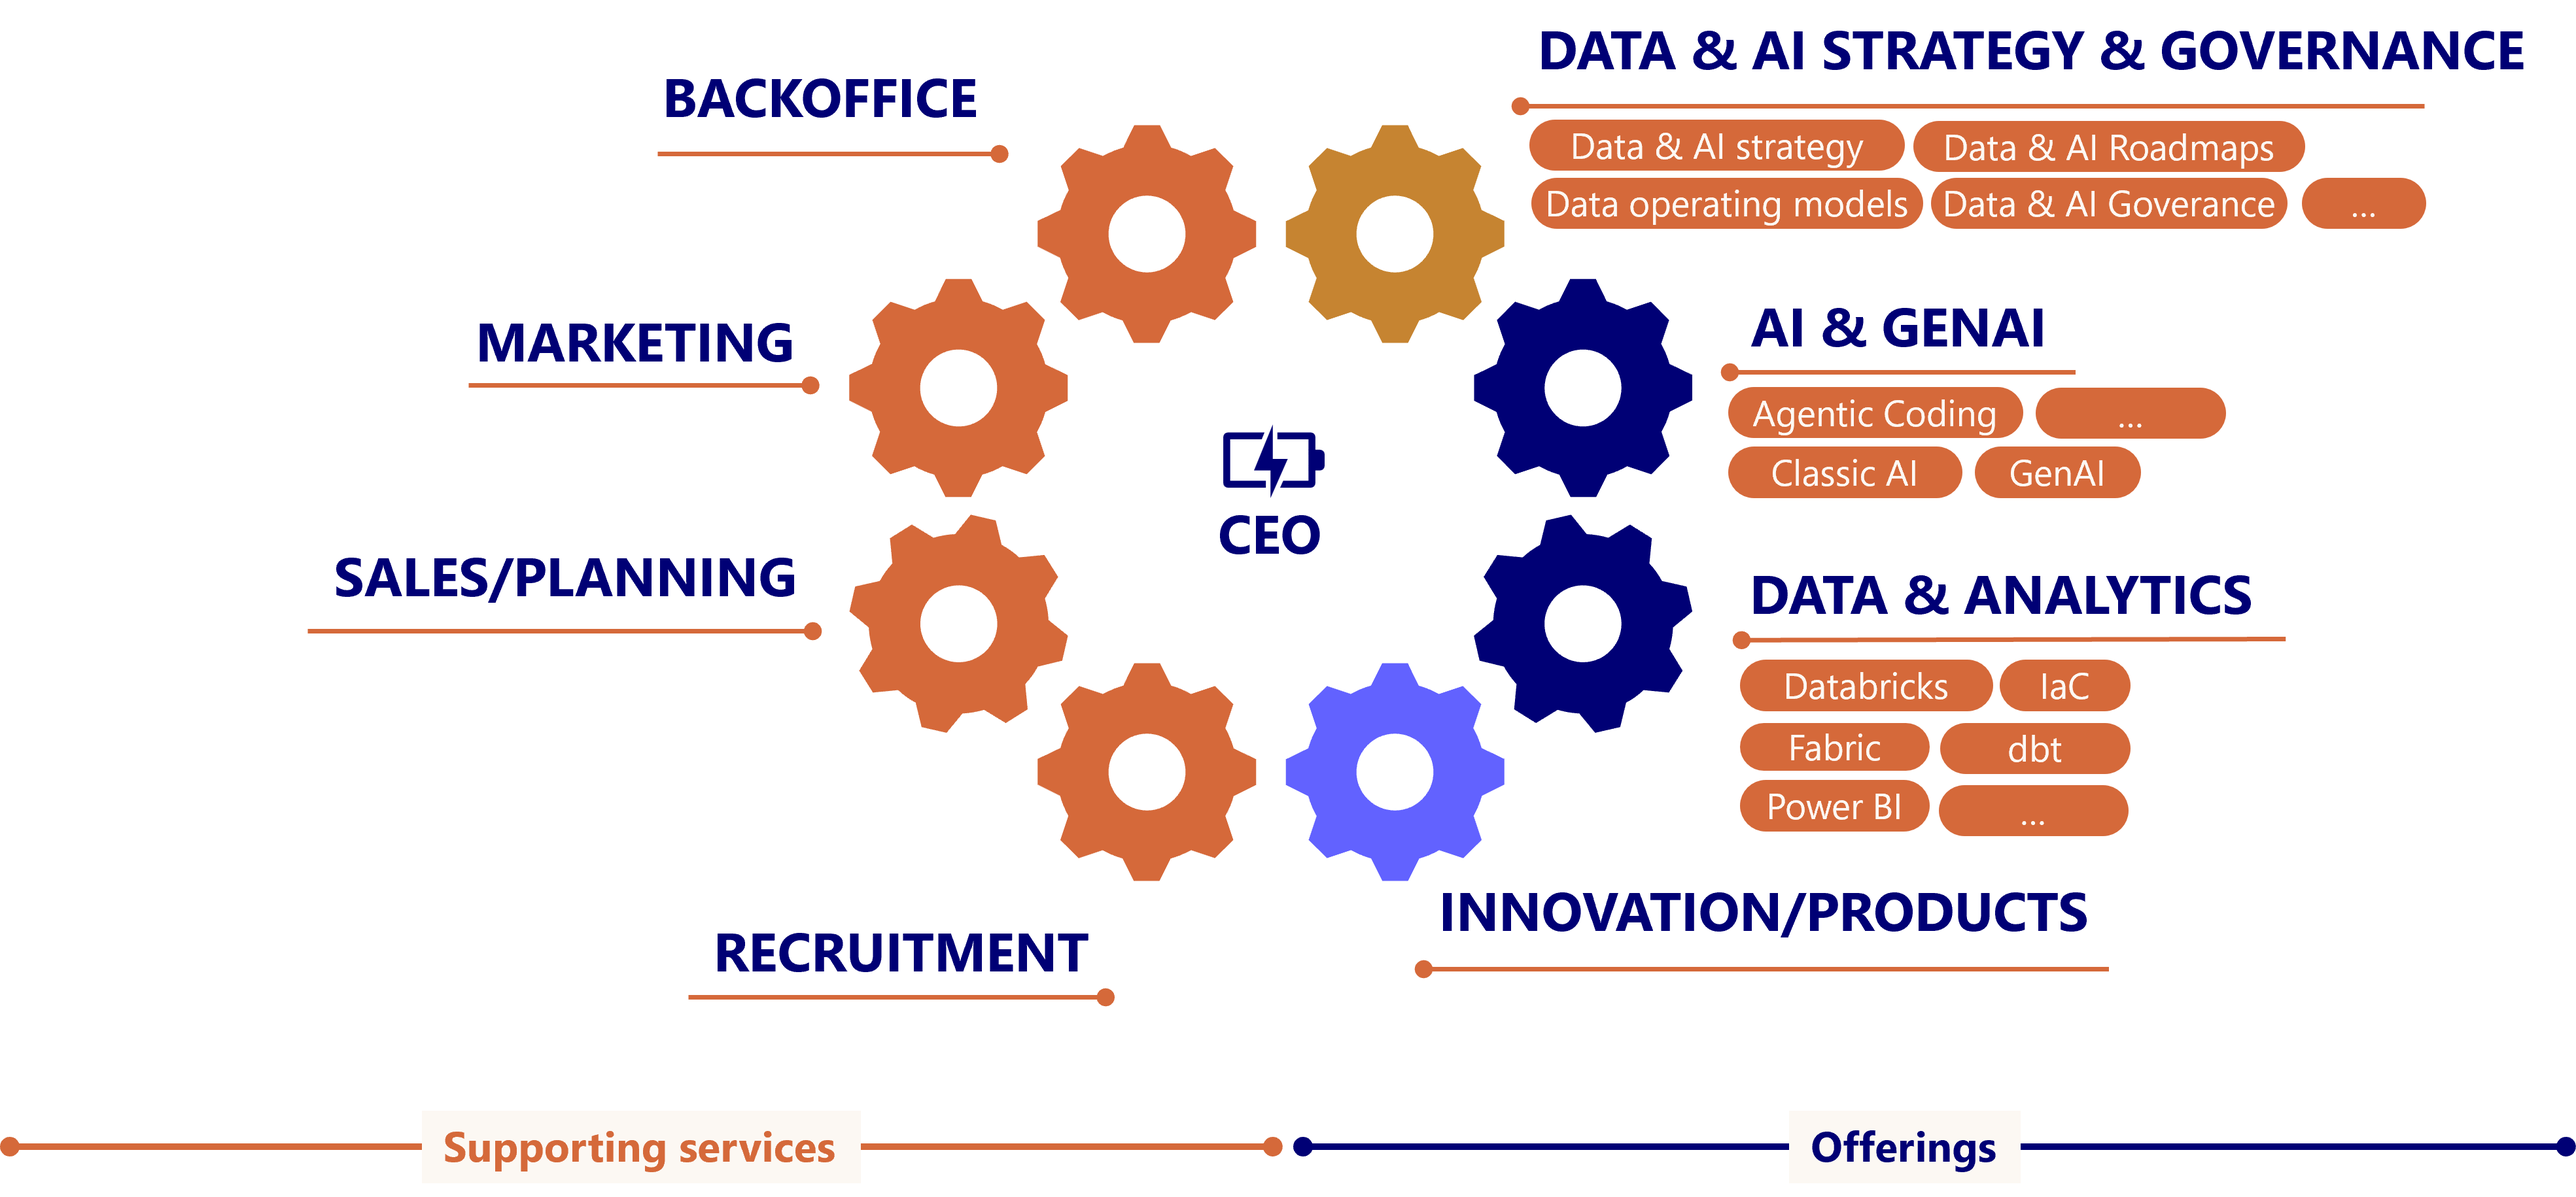
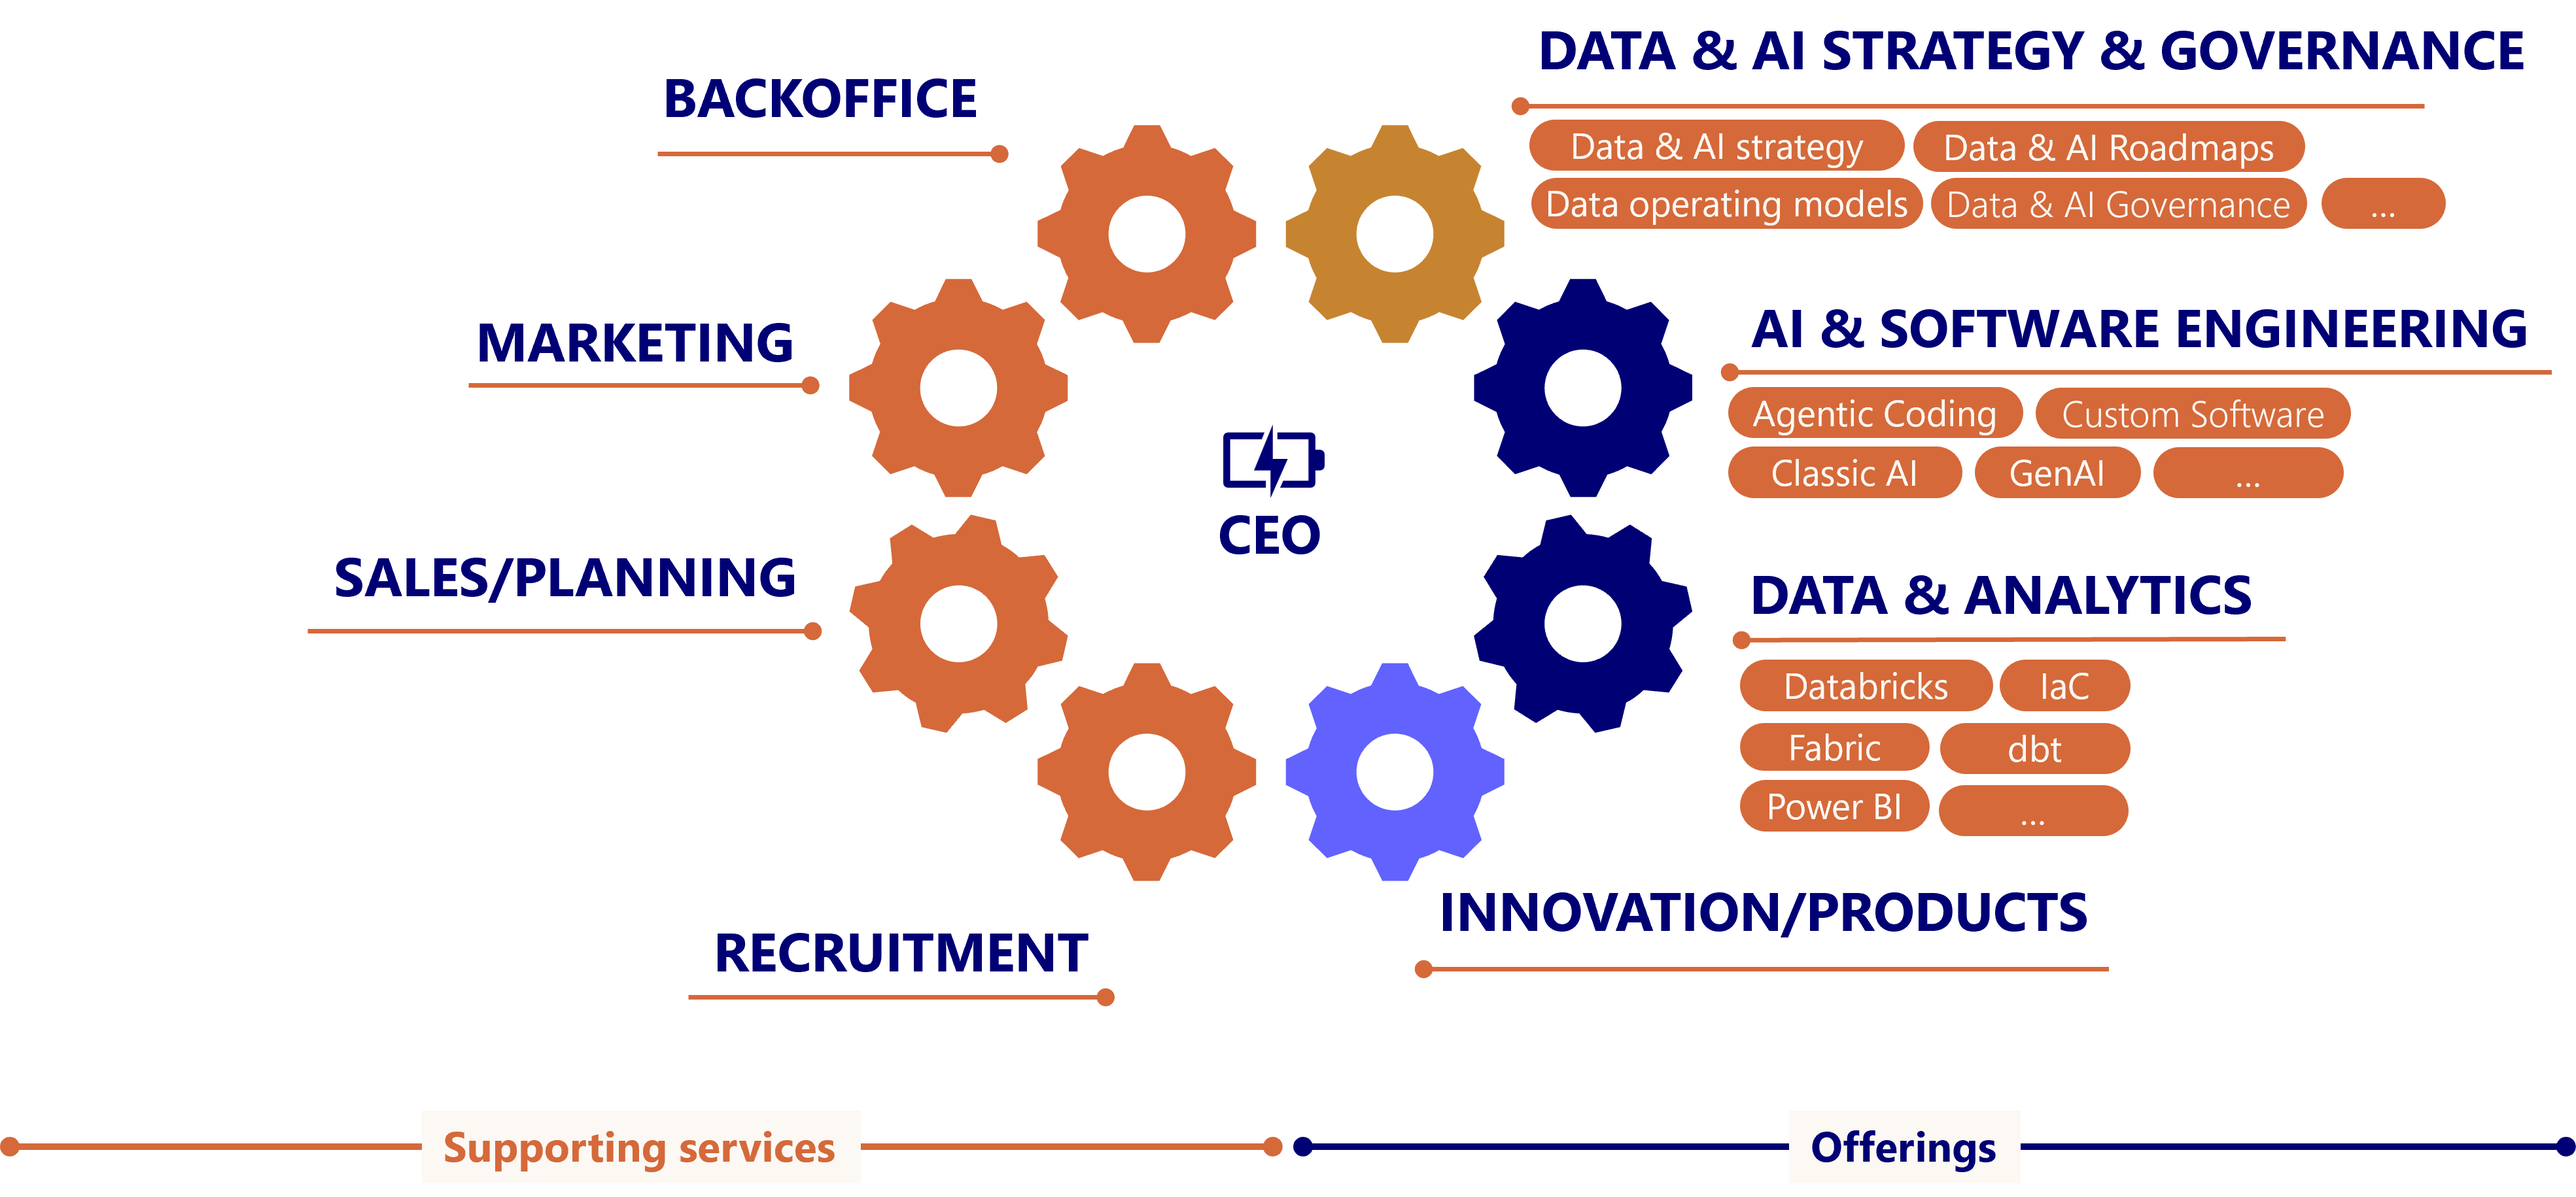
Rename AI & GenAI offering to AI & Software Engineering (#69)
Matches the website, where Build covers data & analytics, AI and software
engineering. Updated in the offerings table, the Offer Leads diagram and
the organisation image (new heading, a Custom Software chip, and the
"Goverance" typo fixed). Also drops a style line for a node that does not
exist in the diagram and aligns a link title with the nav.

Claude-Session: https://claude.ai/code/session_012hC2uNVGY3SwfwoCYvpLCx

Changed region(s): [[0.6872, 0.249, 0.9995, 0.4358], [0.7496, 0.1245, 0.9058, 0.1868], [0.937, 0.1557, 0.9683, 0.1868]]

diff --git a/docs/about-plainsight/how-were-organised.md b/docs/about-plainsight/how-were-organised.md
@@ -20,7 +20,7 @@ On the **right** sit our three offerings. This is where our experts do what they
 | Offering | What we do |
 |---|---|
 | **Data/AI Strategy & Governance** | Helping organisations define their data and AI roadmap and set up the right governance to make it stick. |
-| **AI & GenAI Implementation** | Building and deploying AI and generative AI solutions that deliver real business value. |
+| **AI & Software Engineering** | Building AI that runs in production, from machine learning to GenAI and agents, and the custom software, platforms and integrations around it. |
 | **Data & Analytics** | Engineering data platforms, analytics solutions, and everything in between. |
 
 On the **left** sit the supporting services that keep the machine running: backoffice, marketing, sales, and recruitment. Without them, the offerings don't reach the people who need them.
@@ -46,7 +46,7 @@ Consultants are not split into fixed "one consultant per offer" boxes. A consult
 
 flowchart TB
   subgraph TOP[Offer Leads]
-    O1[AI & GenAI Implementation]
+    O1[AI & Software Engineering]
     O2[Data/AI Strategy & Governance]
     O3[Data & Analytics]
   end
@@ -62,7 +62,6 @@ flowchart TB
   O3 <---> C
   C ~~~ P
   style P fill:transparent,stroke:transparent, font-size:16px
-  style S1 fill:transparent,stroke:transparent 
 ```
 
 
@@ -137,4 +136,4 @@ Want to know what drives that culture? Read [🥇 The Foundation of Plainsight](
 | Our purpose and values | [🥇 The Foundation of Plainsight](the-foundation-of-plainsight.md) |
 | How you grow here | [🎯 Evolution Process](../people-ops/working/evolution-process.md) |
 | The employee journey | [🚀 Onboarding](../people-ops/onboarding.md) |
-| Our technical guidelines | [Why 'Technical Guideline Ops'](../technical-guidelines/why-technical-guidelines.md) |
+| Our technical guidelines | [Why Technical Guidelines](../technical-guidelines/why-technical-guidelines.md) |
